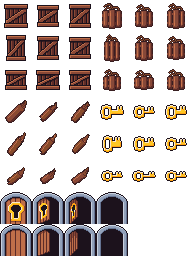
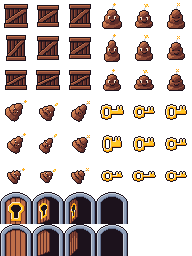
feat: nuove texture di terreno e oggetti, pavimento lava con magma
- terrain.png e items.png aggiornati
- Bioma Lava: magma_stone0 passa dai blocchi distruggibili alle varianti
  del pavimento calpestabile

diff --git a/PoopManLibrary/World/TileMap.cs b/PoopManLibrary/World/TileMap.cs
@@ -32,8 +32,8 @@ public class TileMap
                 new[] { "glass0", "glass1", "glass2" }, "brick_wall1"),
             [MapTheme.Cave] = ("stone_brick_wall", new[] { "cobblestone", "mossy_cobblestone", "dirt_stone" },
                 new[] { "ground2" }, "stone_brick_wall"),
-            [MapTheme.Lava] = ("magma_brick_wall", new[] { "cobblestone", "magma_stone0"},
-                new[] { "magma_stone1" }, "stone_brick_wall"),
+            [MapTheme.Lava] = ("magma_brick_wall", new[] { "cobblestone"},
+                new[] { "magma_stone1", "magma_stone0" }, "stone_brick_wall"),
             [MapTheme.Ice] = ("ice_brick_wall", new[] { "log0", "log1", "plank0", "plank1" },
                 new[] { "ice_glass0", "ice_glass1", "ice_glass2" }, "ice_brick_wall"),
             [MapTheme.Swamp] = ("mossy_brick_wall", new[] { "log0", "log1", "plank0", "plank1" },
